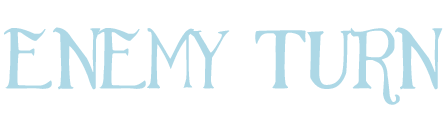
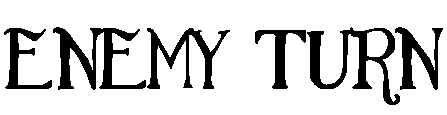
Frontend UI adjustments

Changed region(s): [[0.0, 0.2348, 0.5235, 0.7826], [0.5526, 0.2348, 1.0, 0.913]]

diff --git a/src/main/resources/static/js/TurnTimer.js b/src/main/resources/static/js/TurnTimer.js
@@ -15,10 +15,13 @@ class TurnTimer{
         this.timeLeft = this.maxTime;
         this.needsNewTurn = false;
         if(isTurn){
-            $(".centerClockRect").css("background-image","../images/EndTurn.png");
+            $(".centerClockRect").addClass("endTurnPng");
+            $(".centerClockRect").removeClass("enemyTurnPng");
         }
         else{
-            $(".centerClockRect").css("background-image","../images/EnemyTurn.png");
+            $(".centerClockRect").removeClass("endTurnPng");
+            $(".centerClockRect").addClass("enemyTurnPng");
+            
         }
         this.updateThread(this);
     }

diff --git a/src/main/resources/static/css/resZone.css b/src/main/resources/static/css/resZone.css
@@ -1,6 +1,6 @@
 .health{
 	color:black;
-	background:rgba(255,102,102,1.0);
+	background:rgba(200,102,102,.6);
 	background-image:url("../images/health.png");
 	background-repeat:no-repeat;
 	background-size:contain;
@@ -77,6 +77,7 @@
   width:33%;
   height:35%;
   text-align:center;
+  font-weight:bold;
 }
 
 .deckBox{
@@ -91,6 +92,7 @@
   background-size:contain;
   background-repeat:no-repeat;
   background-position:center;
+  font-weight:bold;
 }
 
 .imageSub{
@@ -104,6 +106,7 @@
   width:33%;
   height:35%;
   text-align:center;
+  font-weight:bold;
 }
 
 .optionsGear{

diff --git a/src/main/resources/static/js/cardCollection.js b/src/main/resources/static/js/cardCollection.js
@@ -202,7 +202,13 @@ class cardCollection extends drawableZone{
 	sizeCards(div){
         div.children().children('.cardBox').css({
 			'height':function(index, value){
-				return $(this).height() - 12;
+                let height = $(this).height();
+                if(height > 170){
+                    return 158;
+                }
+                else{
+                    return height - 12;
+                }
 			}
 		});
 		div.children().children('.cardBox').css({

diff --git a/src/main/resources/static/css/newBoard.css b/src/main/resources/static/css/newBoard.css
@@ -259,8 +259,16 @@ body .bigModal .modal-dialog {
     box-shadow: 0 -2px 20px 5px #9ecaed;
     background-size:contain;
     background-position:center;
-    background-image:url("../images/EndButton.png");
     background-repeat:no-repeat;
+    cursor:pointer;
+}
+
+.endTurnPng{
+    background-image:url("../images/EndButton.png");
+}
+
+.enemyTurnPng{
+    background-image:url("../images/EnemyTurn.png");
 }
 
 .board .zone{

diff --git a/src/main/resources/static/js/cardDrawing.js b/src/main/resources/static/js/cardDrawing.js
@@ -172,6 +172,7 @@ function setupMouseListen(){
 
 function prepTurnTimers(){
     turnTimer = new TurnTimer(true,10);
+    turnTimer.startTurn(false);
 }
 
 function popOptionsMenu(){

diff --git a/src/main/java/cards/FellTitan.java b/src/main/java/cards/FellTitan.java
@@ -1,0 +1,45 @@
+package cards;
+
+import cardgamelibrary.Board;
+import cardgamelibrary.Card;
+import cardgamelibrary.CardType;
+import cardgamelibrary.Effect;
+import cardgamelibrary.ManaPool;
+import cardgamelibrary.SpellCard;
+import cardgamelibrary.Zone;
+import game.Player;
+import templates.TargetsOtherCard;
+
+public class FellTitan extends SpellCard implements TargetsOtherCard{
+
+	private static final ManaPool	defaultCost		= new ManaPool(10, 0, 0, 0, 0, 2);
+	private static final String		defaultImage	= "images/FellTitan.jpg";
+	private static final String		defaultName		= "Fell Titan";
+	private static final String		defaultText		= "Destroy target creature that costs 5 or more.";
+	private static final CardType	defaultType		= CardType.SPELL;
+	
+	public FellTitan(Player owner) {
+		super(defaultCost, defaultImage, owner, defaultName, defaultText, defaultType);
+	}
+
+	@Override
+	public boolean cardValidTarget(Card card, Zone targetIn) {
+		if(targetIn == Zone.CREATURE_BOARD){
+			if(card.getCost().getResources() >= 50){
+				return true;
+			}
+		}
+		return false;
+	}
+
+	@Override
+	public Effect impactCardTarget(Card target, Zone targetIn) {
+		assert cardValidTarget(target,targetIn);
+		return (Board board) -> {
+			board.addCardToOcc(target, board.getOcc(target.getOwner(), Zone.CREATURE_BOARD), board.getOcc(target.getOwner(), Zone.GRAVE));
+		};
+	}
+
+	
+	
+}

diff --git a/src/main/java/cards/ProtectedBySand.java b/src/main/java/cards/ProtectedBySand.java
@@ -27,7 +27,7 @@ public class ProtectedBySand extends SpellCard{
 	private static final CardType	defaultType		= CardType.SPELL;
 	
 	public boolean onProposedEvent(Event e, Zone z){
-		if(z == Zone.SPELL_GRAVE){
+		if(z == Zone.GRAVE){
 			if(this.spellsToPrevent > 0){
 				if(e.getType() == EventType.PLAYER_DAMAGED){
 					PlayerDamagedEvent pde = (PlayerDamagedEvent) e;
@@ -41,7 +41,7 @@ public class ProtectedBySand extends SpellCard{
 	}
 	
 	public Event getNewPropositon(Event e, Zone z){
-		if(z == Zone.SPELL_GRAVE){
+		if(z == Zone.GRAVE){
 			if(this.spellsToPrevent > 0){
 				if(e.getType() == EventType.PLAYER_DAMAGED){
 					PlayerDamagedEvent pde = (PlayerDamagedEvent) e;

diff --git a/src/main/java/templates/TargetsOtherCard.java b/src/main/java/templates/TargetsOtherCard.java
@@ -13,9 +13,7 @@ public interface TargetsOtherCard extends Card {
 	// when the target is valid, produce some effect.
 	// this should usually also play the targetting card (move to appropriate zone
 	// i.e. graveyard).
-	default public Effect impactCardTarget(Card target, Zone targetIn) {
-		return EmptyEffect.create();
-	}
+	 public Effect impactCardTarget(Card target, Zone targetIn);
 
 	@Override
 	public default Effect onCardTarget(TargetsOtherCard targetter, Card targetted, Zone z, Zone targetIn) {

diff --git a/src/main/java/cards/RockShock.java b/src/main/java/cards/RockShock.java
@@ -35,7 +35,7 @@ public class RockShock extends SpellCard implements TargetsOtherCard{
 	// when the target is valid, produce some effect.
 	// this should usually also play the targetting card (move to appropriate zone
 	// i.e. graveyard).
-	public Effect impactCardTarget(Card target) {
+	public Effect impactCardTarget(Card target, Zone zone) {
 		return (Board board) -> {
 			if((target instanceof Creature)){
 				Creature c = (Creature) target;

diff --git a/src/main/java/cardgamelibrary/Zone.java b/src/main/java/cardgamelibrary/Zone.java
@@ -8,6 +8,6 @@ package cardgamelibrary;
  */
 public enum Zone {
 
-	BOARD, HAND, DECK, CREATURE_BOARD, CREATURE_GRAVE, AURA_BOARD, SPELL_GRAVE, EXILE, GRAVE;
+	BOARD, HAND, DECK, CREATURE_BOARD, AURA_BOARD, EXILE, GRAVE;
 
 }
